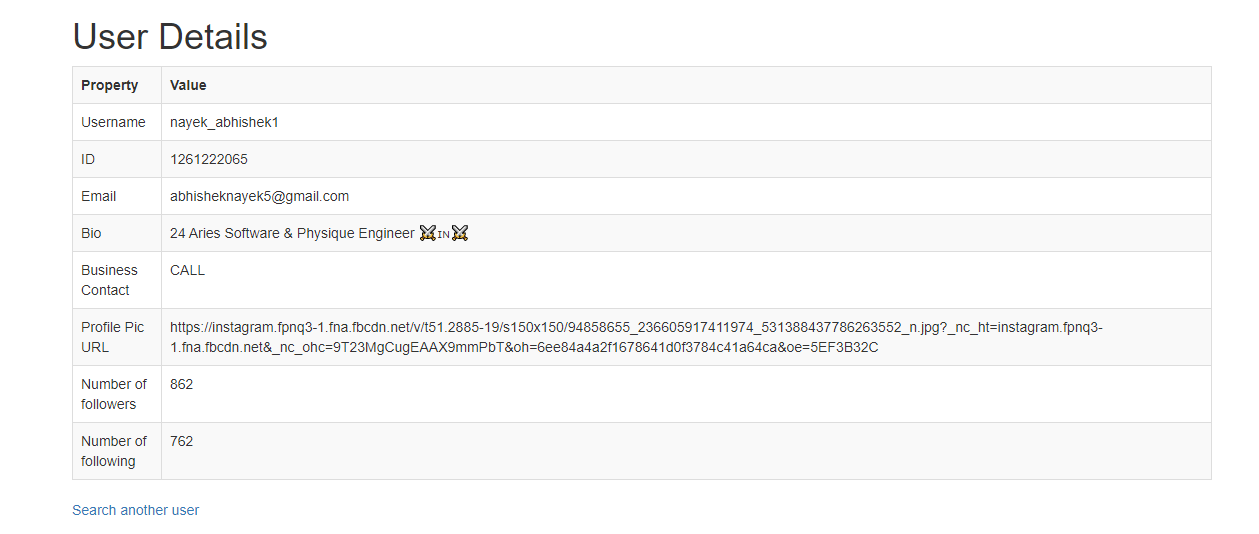
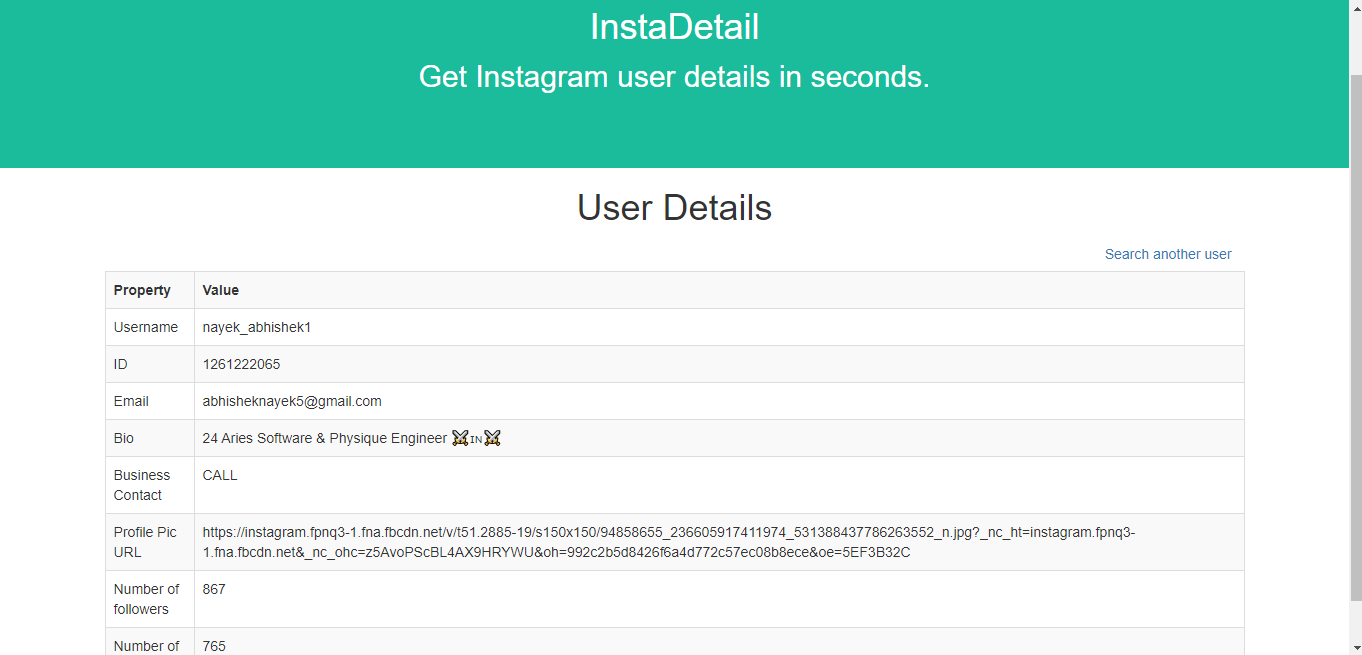
webpages modifications

diff --git a/insta-details/src/main/resources/templates/index.html b/insta-details/src/main/resources/templates/index.html
@@ -1,20 +1,61 @@
 <!DOCTYPE HTML>
 <html xmlns:th="https://www.thymeleaf.org">
 <head>
-    <title>Insta-app</title>
-    <meta http-equiv="Content-Type" content="text/html; charset=UTF-8" />
+<title>Insta-app</title>
+<meta http-equiv="Content-Type" content="text/html; charset=UTF-8" />
 <link rel="stylesheet"
 	href="https://maxcdn.bootstrapcdn.com/bootstrap/3.3.7/css/bootstrap.min.css"
 	integrity="sha384-BVYiiSIFeK1dGmJRAkycuHAHRg32OmUcww7on3RYdg4Va+PmSTsz/K68vbdEjh4u"
 	crossorigin="anonymous">
+<style>
+/* Style the body */
+body {
+	font-family: Arial;
+	margin: 0;
+}
+
+/* Header/Logo Title */
+.header {
+	padding: 60px;
+	text-align: center;
+	background: #1abc9c;
+	color: white;
+	font-size: 30px;
+}
+
+/* Page Content */
+.content {
+	padding: 20px;
+}
+
+/* body content to center */
+h1 {
+	text-align: center;
+}
+
+p {
+	text-align: center;
+}
+</style>
 </head>
+
 <body>
-<div class="container container-fluid">
-	<h1>Enter Instagram handle</h1>
-    <form action="#" th:action="@{/insta-app/user}" th:object="${user}" method="post">
-    	<p>Instagram Username: <input type="text" th:field="*{username}" /></p>
-        <p><input type="submit" value="Submit" /> <input type="reset" value="Reset" /></p>
-    </form>
-</div>
+	<div class="header">
+		<h1>InstaDetail</h1>
+		<p>Get Instagram user details in seconds.</p>
+	</div>
+	<div class="container container-fluid">
+		<h1>Enter Instagram handle</h1>
+		<form action="#" th:action="@{/insta-app/user}" th:object="${user}"
+			method="post">
+			<p>
+				Instagram Username: <input type="text" th:field="*{username}" />
+			</p>
+			<p>
+				<input type="submit" value="Submit" /> <input type="reset"
+					value="Reset" />
+			</p>
+		</form>
+	</div>
 </body>
 </html>

diff --git a/insta-details/src/main/resources/templates/details.html b/insta-details/src/main/resources/templates/details.html
@@ -7,12 +7,49 @@
 	href="https://maxcdn.bootstrapcdn.com/bootstrap/3.3.7/css/bootstrap.min.css"
 	integrity="sha384-BVYiiSIFeK1dGmJRAkycuHAHRg32OmUcww7on3RYdg4Va+PmSTsz/K68vbdEjh4u"
 	crossorigin="anonymous">
+
+<style>
+/* Style the body */
+body {
+	font-family: Arial;
+	margin: 0;
+}
+
+/* Header/Logo Title */
+.header {
+	padding: 60px;
+	text-align: center;
+	background: #1abc9c;
+	color: white;
+	font-size: 30px;
+}
+
+/* Page Content */
+.content {
+	padding: 20px;
+}
+
+/* body content to center */
+h1 {
+	text-align: center;
+}
+
+p {
+	text-align: center;
+}
+</style>
 </head>
 <body>
+	<div class="header">
+		<h1>InstaDetail</h1>
+		<p>Get Instagram user details in seconds.</p>
+	</div>
 
 	<div class="container container-fluid">
 		<h1>User Details</h1>
-		<table class="table table-striped table-dark table-bordered table-hover">
+		<a href="/insta-app/home" class="btn btn-link" style="float:right">Search another user</a>
+		<table
+			class="table table-striped table-dark table-bordered table-hover">
 			<tr>
 				<th>Property</th>
 				<th>Value</th>
@@ -50,9 +87,6 @@
 				<td th:text="${user.followingCount}"></td>
 			</tr>
 		</table>
-
-		<a href="/insta-app/home">Search another user</a>
-
 	</div>
 </body>
 </html>

diff --git a/insta-details/src/main/java/com/nayek/instadetails/controller/InstaController.java b/insta-details/src/main/java/com/nayek/instadetails/controller/InstaController.java
@@ -19,8 +19,8 @@ import com.nayek.instadetails.model.User;
 @RequestMapping("/insta-app")
 public class InstaController {
 
-	private static final String username = "<Your username>";
-	private static final String password = "Your password";
+	private static final String username = "<your instagram username>";
+	private static final String password = "<your password>";
 
 	@GetMapping("/home")
 	public ModelAndView showHomePage() {
